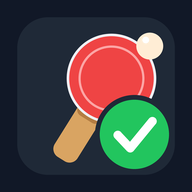
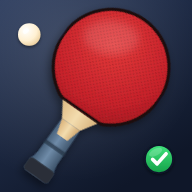
アイコンを新デザインに差し替え、リンクの説明文(OGP)を追加

diff --git a/index.html b/index.html
@@ -5,6 +5,13 @@
   <link rel="apple-touch-icon" href="icon-180.png">
   <link rel="manifest" href="manifest.webmanifest">
   <meta name="theme-color" content="#111827">
+  <meta name="description" content="卓球サークルの練習の出欠を、スマホで登録するアプリです。">
+  <meta property="og:type" content="website">
+  <meta property="og:site_name" content="wtts出欠">
+  <meta property="og:title" content="wtts出欠">
+  <meta property="og:description" content="卓球サークルの練習の出欠を、スマホで登録するアプリです。">
+  <meta property="og:image" content="https://ta-yamada-wtts.github.io/wtts/icon-512.png">
+  <meta name="twitter:card" content="summary">
   <meta charset="UTF-8">
   <meta name="viewport" content="width=device-width, initial-scale=1.0, maximum-scale=1.0, user-scalable=no">
   <title>wtts出欠</title>
